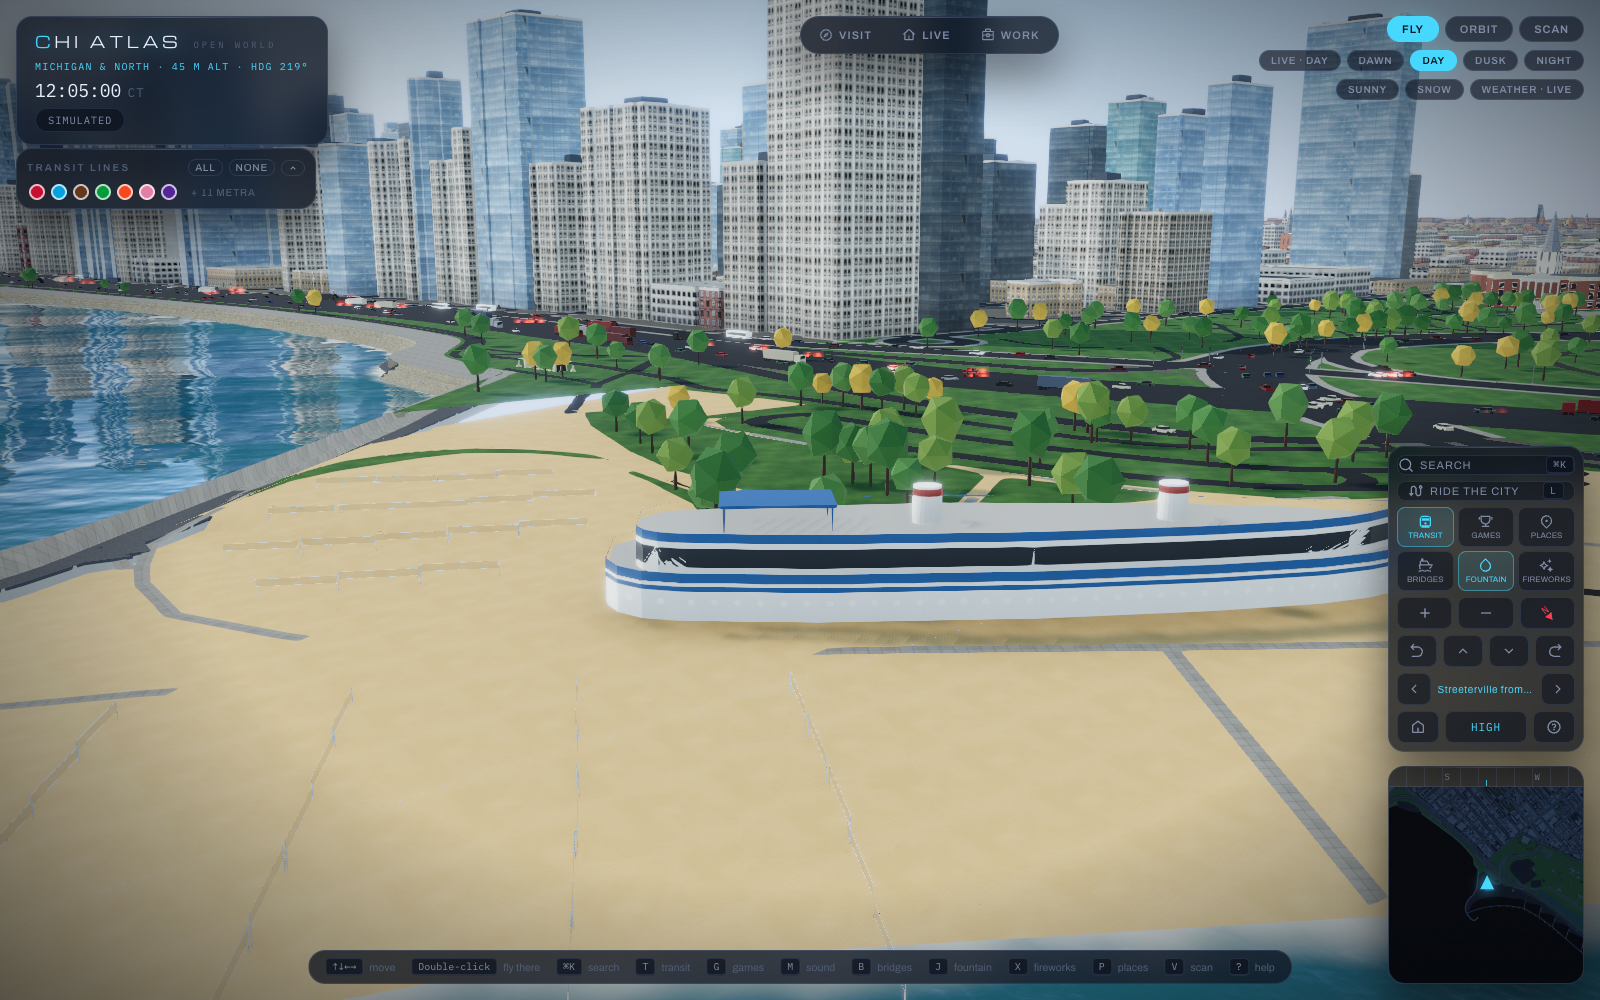
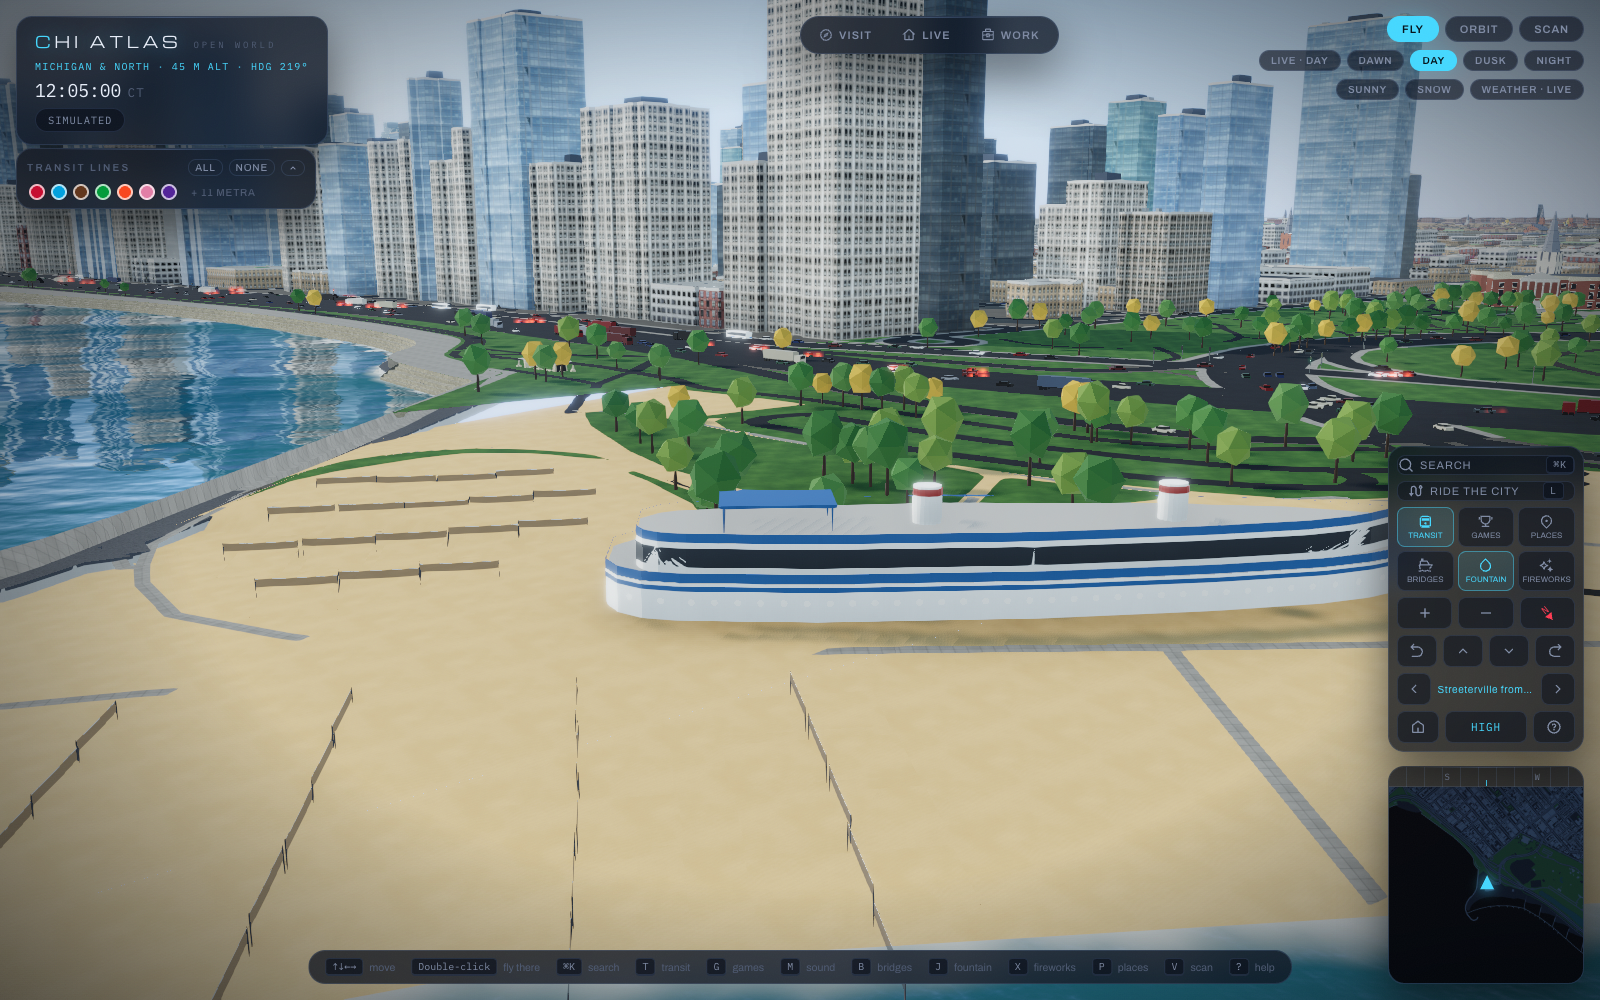
fix(F-8): volleyball nets look real — matte and non-glowing, thin dark posts, a dark see-through mesh band under a white top tape, sagging slightly; beach frames re-taken

diff --git a/app/src/world/beachNets.js b/app/src/world/beachNets.js
@@ -1,11 +1,11 @@
 // app/src/world/beachNets.js — F-8: the beach-volleyball nets on the sand courts (pipeline lib/beaches.js
 // volleyballNets → manifest.beachNets). Pure helpers: decode the instances, pick which draw (near ones cast shadows,
-// far ones don't, nothing beyond FAR_M), and the one ~30-triangle net model: two posts, the mesh and its two tapes.
+// far ones don't, nothing beyond FAR_M), and the one 32-triangle net model: two thin dark posts, the dark mesh band and its white top tape.
 import * as THREE from 'three'
 
 export const STRIDE = 5 // x, z, y (the sand there), yaw, length (post to post)
 export const NEAR_M = 140, FAR_M = 650 // shadows within NEAR_M; a 2.5 m net is ~3 px at FAR_M
-export const NET_TOP = 2.43, NET_DEPTH = 1.0, POST_H = 2.55, POST_R = 0.05
+export const NET_TOP = 2.43, NET_DEPTH = 1.0, POST_H = 2.5, POST_R = 0.04 // men's height; a 1 m deep net
 
 export function decodeNets(entry) {
   const a = entry?.nets
@@ -28,9 +28,12 @@ export function pickNets(nets, [cx, cy, cz], { near = NEAR_M, far = FAR_M, inVie
 }
 
 // one net `len` m long along +x (post to post), centred on the origin, standing on y = 0. It is built at the nets'
-// median length and each instance scales x by its own length over that (±10%: the posts stay round to the eye).
-// Two parts: the solid one (posts and the two white tapes, which may cast shadows) and the see-through mesh (never).
-const POST = [0.72, 0.72, 0.7], MESH = [0.08, 0.08, 0.09], TAPE = [0.93, 0.93, 0.9]
+// median length and each instance scales x by its own length over that (±10%).
+// Two parts: the solid one (two thin dark posts and the white top tape, which may cast shadows) and the see-through
+// dark mesh band below the tape (never). Both sag a little toward the middle, like a real net on its cable.
+// Matte colours below 0.75: nothing here gets near the bloom threshold under the noon sun.
+export const POST_COL = [0.09, 0.09, 0.1], MESH_COL = [0.05, 0.05, 0.06], TAPE_COL = [0.72, 0.72, 0.7]
+export const SAG_TOP = 0.05, SAG_BOTTOM = 0.12, NET_SEGS = 4
 function geometry(tris) {
   const g = new THREE.BufferGeometry()
   g.setAttribute('position', new THREE.Float32BufferAttribute(tris.flatMap((t) => t.p), 3))
@@ -41,16 +44,19 @@ function geometry(tris) {
 export function netGeometry(len = 9.6) {
   const solid = [], mesh = []
   const quad = (out, a, b, c, d, col) => { for (const tri of [[a, b, c], [a, c, d]]) out.push({ p: tri.flat(), c: [...col, ...col, ...col] }) }
-  const SIDES = 6
-  for (const px of [-len / 2, len / 2]) for (let k = 0; k < SIDES; k++) { // two open hexagonal posts
-    const a0 = (k / SIDES) * Math.PI * 2, a1 = ((k + 1) / SIDES) * Math.PI * 2
-    const p0 = [px + POST_R * Math.cos(a0), POST_R * Math.sin(a0)], p1 = [px + POST_R * Math.cos(a1), POST_R * Math.sin(a1)]
-    quad(solid, [p0[0], 0, p0[1]], [p0[0], POST_H, p0[1]], [p1[0], POST_H, p1[1]], [p1[0], 0, p1[1]], POST)
+  for (const px of [-len / 2, len / 2]) { // two thin square posts
+    const r = POST_R, c = [[px - r, -r], [px + r, -r], [px + r, r], [px - r, r]]
+    for (let k = 0; k < 4; k++) { const p0 = c[k], p1 = c[(k + 1) % 4]; quad(solid, [p0[0], 0, p0[1]], [p0[0], POST_H, p0[1]], [p1[0], POST_H, p1[1]], [p1[0], 0, p1[1]], POST_COL) }
   }
-  const x0 = -len / 2 + POST_R, x1 = len / 2 - POST_R, yb = NET_TOP - NET_DEPTH
-  quad(solid, [x0, NET_TOP - 0.07, 0], [x1, NET_TOP - 0.07, 0], [x1, NET_TOP, 0], [x0, NET_TOP, 0], TAPE) // the top tape
-  quad(solid, [x0, yb, 0], [x1, yb, 0], [x1, yb + 0.05, 0], [x0, yb + 0.05, 0], TAPE) // the bottom tape
-  quad(mesh, [x0, yb + 0.05, 0], [x1, yb + 0.05, 0], [x1, NET_TOP - 0.07, 0], [x0, NET_TOP - 0.07, 0], MESH)
+  const x0 = -len / 2 + POST_R, x1 = len / 2 - POST_R, TAPE = 0.07
+  const sag = (t, s) => s * (1 - (2 * t - 1) ** 2) // 0 at the posts, s in the middle
+  for (let i = 0; i < NET_SEGS; i++) {
+    const t0 = i / NET_SEGS, t1 = (i + 1) / NET_SEGS, xa = x0 + (x1 - x0) * t0, xb = x0 + (x1 - x0) * t1
+    const ta = NET_TOP - sag(t0, SAG_TOP), tb = NET_TOP - sag(t1, SAG_TOP)
+    const ba = NET_TOP - NET_DEPTH - sag(t0, SAG_BOTTOM), bb = NET_TOP - NET_DEPTH - sag(t1, SAG_BOTTOM)
+    quad(solid, [xa, ta - TAPE, 0], [xb, tb - TAPE, 0], [xb, tb, 0], [xa, ta, 0], TAPE_COL) // the white top tape
+    quad(mesh, [xa, ba, 0], [xb, bb, 0], [xb, tb - TAPE, 0], [xa, ta - TAPE, 0], MESH_COL) // the dark mesh
+  }
   return { solid: geometry(solid), mesh: geometry(mesh) }
 }
 export const netTriangles = (g) => g.attributes.position.count / 3

diff --git a/app/src/world/__tests__/beachNets.test.js b/app/src/world/__tests__/beachNets.test.js
@@ -1,6 +1,6 @@
 // F-8: the beach-volleyball nets — decoded from the manifest, picked near/far/none by distance and view, and cheap.
 import { describe, it, expect } from 'vitest'
-import { decodeNets, pickNets, netGeometry, netTriangles, medianLength, NEAR_M, FAR_M, NET_TOP } from '../beachNets.js'
+import { decodeNets, pickNets, netGeometry, netTriangles, medianLength, NEAR_M, FAR_M, NET_TOP, POST_COL, MESH_COL, TAPE_COL } from '../beachNets.js'
 
 describe('beach nets', () => {
   const entry = { stride: 5, nets: [0, 0, -0.5, 0, 9.6, 100, 0, -0.6, 1.57, 9.2, 2000, 0, -0.5, 0, 10] }
@@ -21,7 +21,17 @@ describe('beach nets', () => {
     expect(far.lod0).toEqual([]); expect(far.lod1).toEqual([0, 1]) // the one 2.3 km off is not drawn
     expect(pickNets(n, [0, 10, 0], { inView: (x) => x > 50 }).lod0).toEqual([1])
   })
-  it('is a ~30-triangle model at regulation height', () => {
+  it('is matte and dark: dark posts and mesh, an off-white tape well under the bloom threshold', () => {
+    expect(Math.max(...POST_COL)).toBeLessThan(0.15); expect(Math.max(...MESH_COL)).toBeLessThan(0.1)
+    expect(Math.max(...TAPE_COL)).toBeLessThan(0.75)
+  })
+  it('sags toward the middle', () => {
+    const p = netGeometry(9.6).solid.attributes.position
+    let topMid = Infinity, topEnd = -Infinity
+    for (let i = 0; i < p.count; i++) { const x = p.getX(i), y = p.getY(i); if (y < 2.2 || y > NET_TOP + 0.001) continue; if (Math.abs(x) < 0.1) topMid = Math.min(topMid, y); if (Math.abs(x) > 4.7 && Math.abs(x) < 4.8) topEnd = Math.max(topEnd, y) }
+    expect(topEnd).toBeCloseTo(NET_TOP, 2); expect(topMid).toBeLessThan(NET_TOP - 0.1)
+  })
+  it('is a 32-triangle model at regulation height', () => {
     const g = netGeometry(9.6)
     expect(netTriangles(g.solid) + netTriangles(g.mesh)).toBeLessThanOrEqual(32)
     g.solid.computeBoundingBox(); g.mesh.computeBoundingBox()

diff --git a/app/src/world/BeachNets.jsx b/app/src/world/BeachNets.jsx
@@ -1,5 +1,5 @@
 // app/src/world/BeachNets.jsx — F-8: a net on every sand volleyball court (beachNets.js), North Avenue Beach's dozens
-// of courts above all. Three InstancedMeshes of a ~30-triangle model: the posts and tapes near the camera (they cast
+// of courts above all. Three InstancedMeshes of a 32-triangle model: the posts and top tape near the camera (they cast
 // shadows), the same beyond (they don't), and the see-through mesh (never). Drawn only inside the view and within FAR_M,
 // re-picked when the camera moves or turns. Out of the reflection pass (default layer only), never picked.
 import { useEffect, useMemo, useRef } from 'react'
@@ -25,8 +25,9 @@ export default function BeachNets({ entry }) {
     const nets = decodeNets(entry)
     if (!nets.length) return null
     const L = medianLength(nets), g = netGeometry(L)
-    const solidMat = new THREE.MeshStandardMaterial({ vertexColors: true, roughness: 0.6, metalness: 0.2, side: THREE.DoubleSide })
-    const meshMat = new THREE.MeshStandardMaterial({ vertexColors: true, roughness: 1, metalness: 0, side: THREE.DoubleSide, transparent: true, opacity: 0.2, depthWrite: false })
+    // matte, non-emissive and tone-mapped like the ground (no bloom); the mesh a see-through dark band
+    const solidMat = new THREE.MeshStandardMaterial({ vertexColors: true, roughness: 0.95, metalness: 0, side: THREE.DoubleSide })
+    const meshMat = new THREE.MeshStandardMaterial({ vertexColors: true, roughness: 1, metalness: 0, side: THREE.DoubleSide, transparent: true, opacity: 0.72, depthWrite: false })
     return { nets, L, meshes: [instanced(g.solid, solidMat, nets.length, true), instanced(g.solid, solidMat, nets.length, false), instanced(g.mesh, meshMat, nets.length, false)] }
   }, [entry])
   useEffect(() => () => {

diff --git a/README.md b/README.md
@@ -859,7 +859,7 @@ Lake Michigan now lies where it really does: 4.65 m below the lakefront park and
 
 ### F-8 · Beach polish — *Chicago's tan sand, the walks across it, and the volleyball nets*
 
-The beaches now look like the real ones in photographs: the sand is the light tan of Chicago's lakefront beaches rather than a pale cream, and it holds that colour through day, dusk and night (and goes white under the SNOW view). The walks that cross the sand are drawn as narrow light-concrete paths instead of grey blacktop that read as streets, and the Lakefront Trail is drawn as what it is — a park trail of weathered blacktop with a dashed yellow centre line, no street-light glow, ploughed in snow — wherever it runs. North Avenue Beach's lawns, gardens and parking lot by the beach house are no longer buried under sand, and no tree stands on a beach. Every sand volleyball court has its net: two posts, the white top and bottom tapes and a see-through mesh — 112 nets, about 30 triangles each, drawn as instances only inside the view and within 650 m, casting shadows only within 140 m.
+The beaches now look like the real ones in photographs: the sand is the light tan of Chicago's lakefront beaches rather than a pale cream, and it holds that colour through day, dusk and night (and goes white under the SNOW view). The walks that cross the sand are drawn as narrow light-concrete paths instead of grey blacktop that read as streets, and the Lakefront Trail is drawn as what it is — a park trail of weathered blacktop with a dashed yellow centre line, no street-light glow, ploughed in snow — wherever it runs. North Avenue Beach's lawns, gardens and parking lot by the beach house are no longer buried under sand, and no tree stands on a beach. Every sand volleyball court OSM maps has its net at regulation height (2.43 m): two thin dark posts, a dark see-through mesh band about a metre deep under a white top tape, sagging slightly — matte, so nothing glows — 112 nets, 32 triangles each, drawn as instances only inside the view and within 650 m, casting shadows only within 140 m.
 
 <table>
 <tr>
@@ -876,7 +876,7 @@ The beaches now look like the real ones in photographs: the sand is the light ta
 </tr>
 <tr>
 <td><em>Oak Street Beach from the lake: the curve of sand under the Gold Coast towers.</em></td>
-<td><em>Down at the courts: posts, tapes and see-through nets on the sand.</em></td>
+<td><em>Down at the courts: thin dark posts, the dark mesh and its white top tape.</em></td>
 </tr>
 </table>
 
